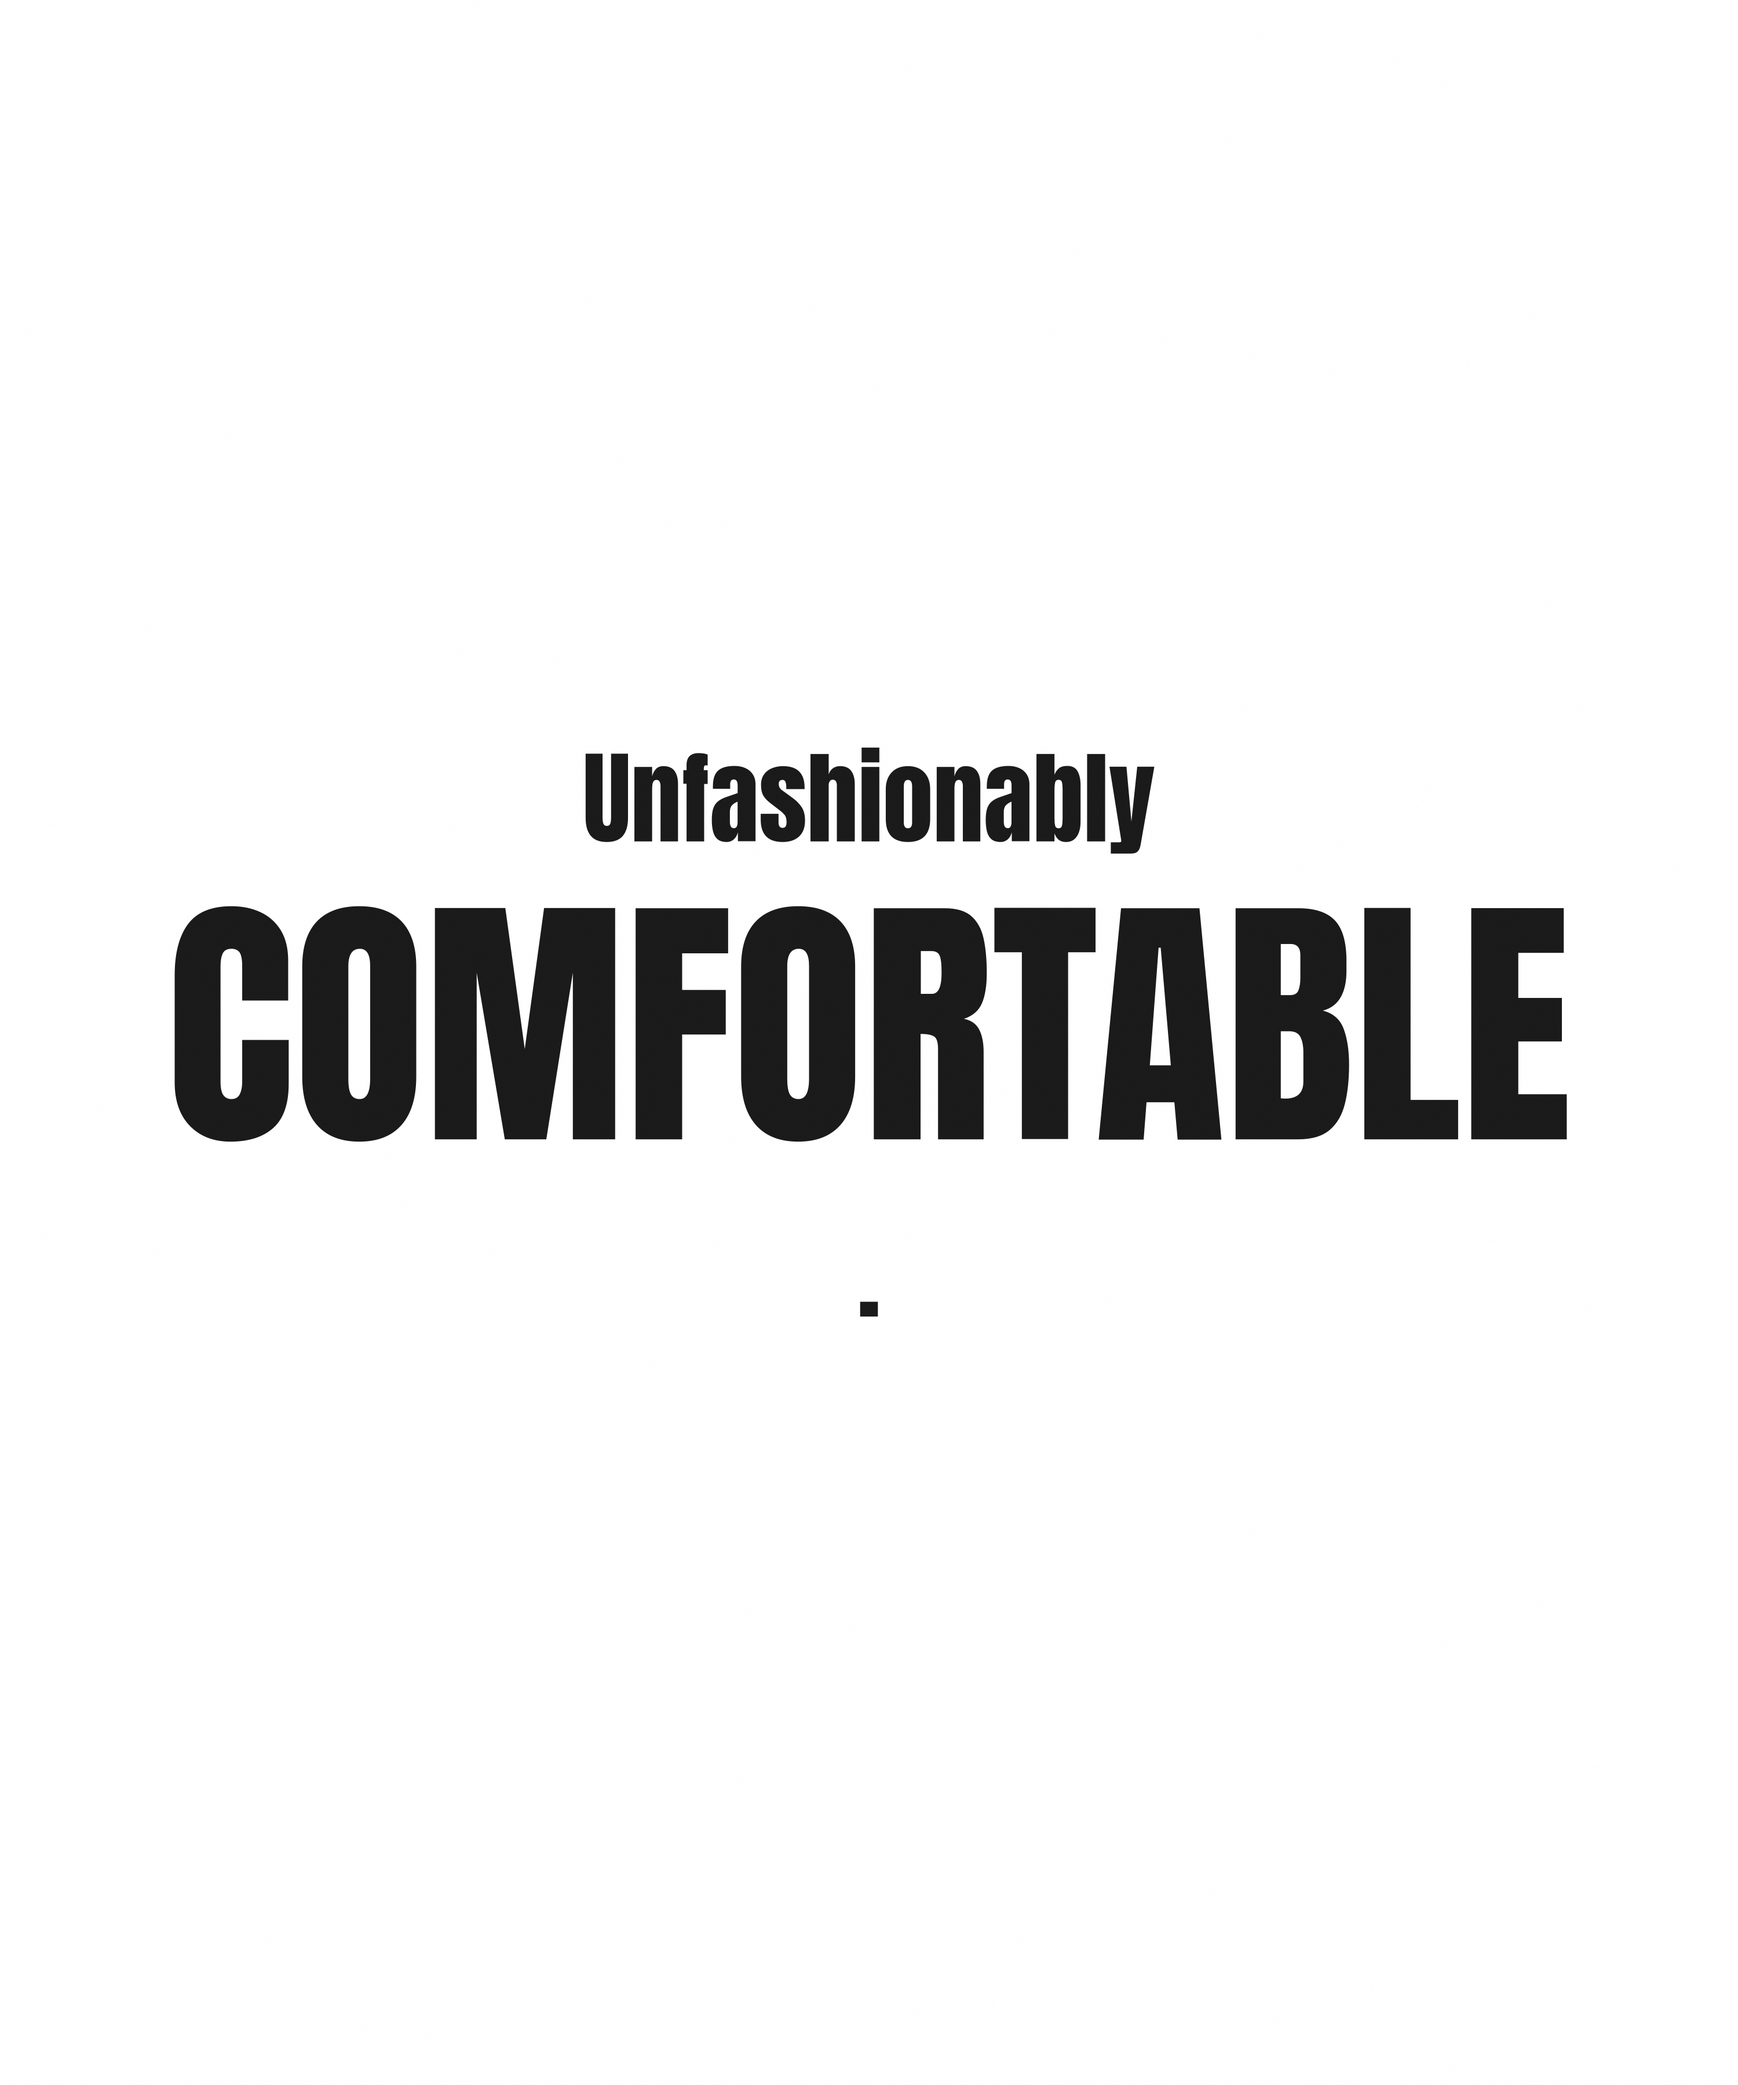
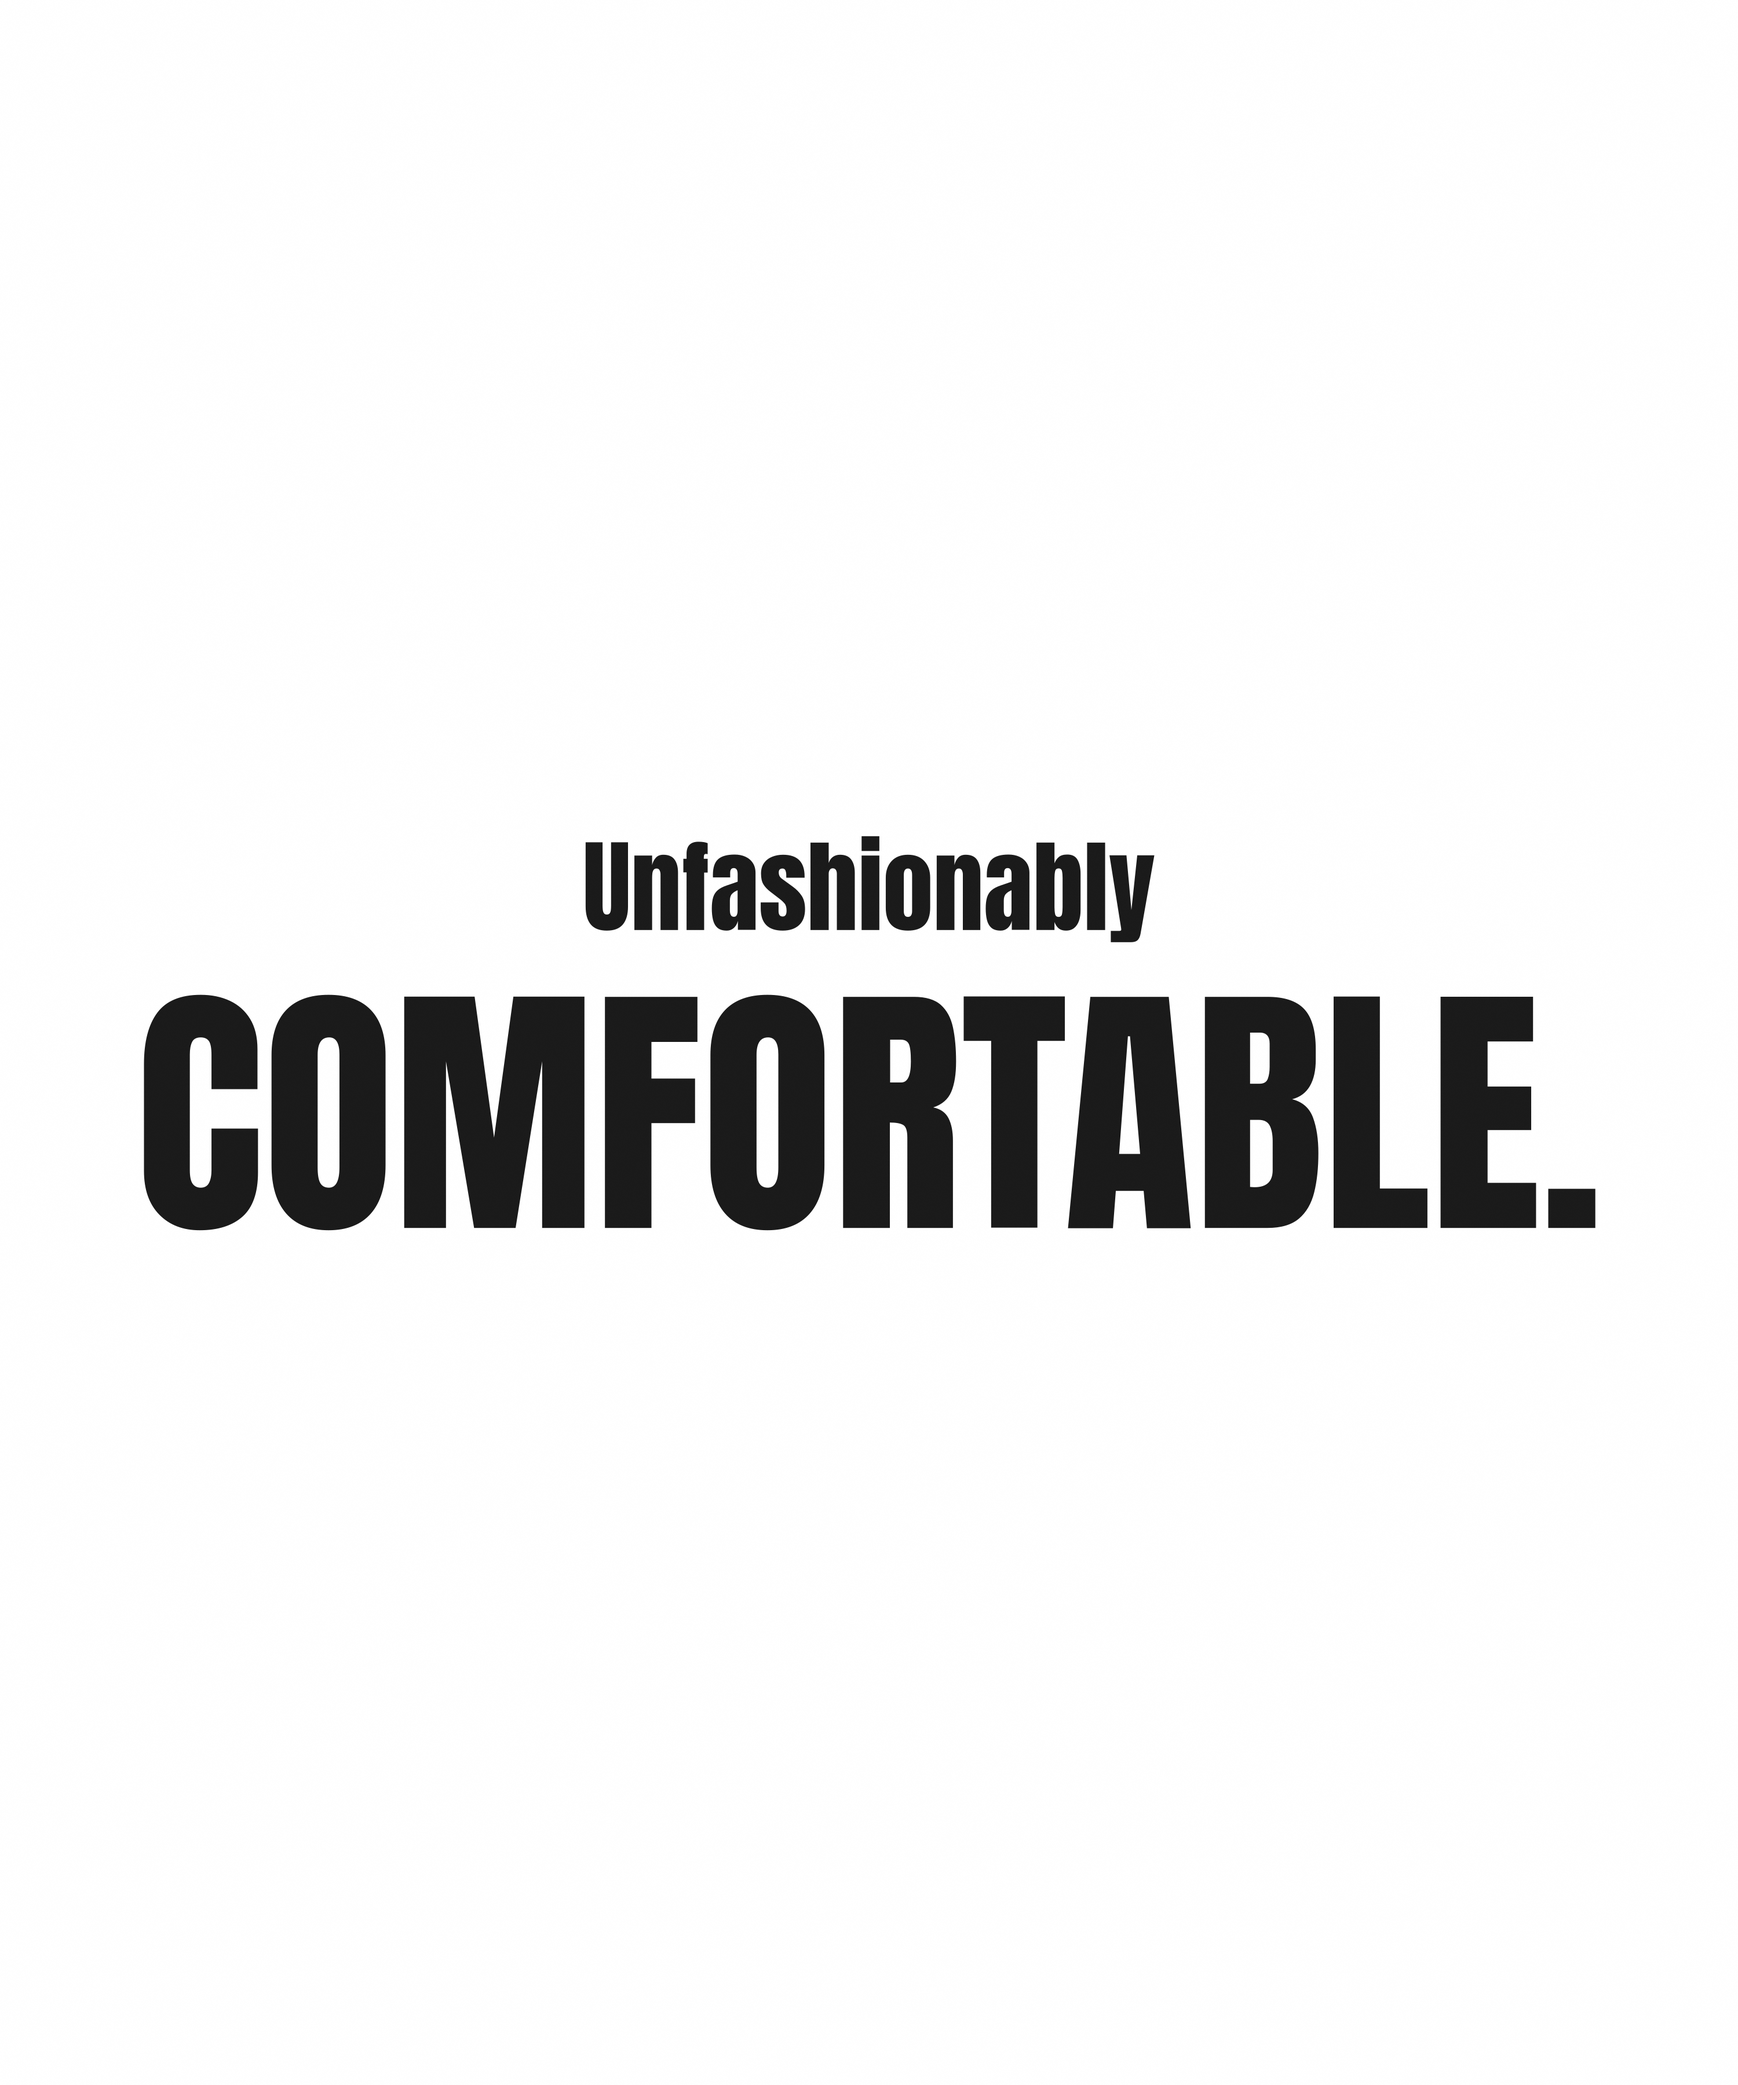
fix(designs): remove stray floating period in back prints (products 18,30,31,32,34,38)
The slogan-ending period was stored in typography_after as a lone "." which
generateBack rendered as its own centered line, printing a stray dot floating
below the keyword on every garment (all colors). Reported on product 31
(You're prettier when you're COMFORTABLE) — the period now lives on the keyword
itself (COMFORTABLE.) and typography_after is empty.

- DB: moved trailing period into typography_big, cleared typography_after for
  the 6 affected active products (18,30,31,32,34,38).
- generate-designs.js: fixed hardcoded entries #17/#18 so the GHA pipeline can
  never reintroduce the floating dot.
- Regenerated all 12 affected back_design PNGs (white + dark).
- Bumped DESIGN_VERSION 2026052301 -> 2026062101 in create-gelato-order.js and
  download-gelato-mockups.js so Gelato re-fetches the corrected print files
  instead of serving the cached defective version.

Claude-Session: https://claude.ai/code/session_018TqsqbVaFt2f9WQ44aTe5b

Changed region(s): [[0.062, 0.3422, 0.93, 0.5911]]

diff --git a/scripts/generate-designs.js b/scripts/generate-designs.js
@@ -89,9 +89,9 @@ const PRODUCTS = [
   { id: 16, phrase: "My goal: minimal EXISTENCE.",       layout: 'top-bottom',
     small: "My goal: minimal",     big: "EXISTENCE.",  after: ""                },
   { id: 17, phrase: "Experienced in EXHAUSTION.",        layout: 'top-bottom',
-    small: "Experienced in",       big: "EXHAUSTION",  after: "."                },
+    small: "Experienced in",       big: "EXHAUSTION.", after: ""                 },
   { id: 18, phrase: "Unfashionably COMFORTABLE.",        layout: 'top-bottom',
-    small: "Unfashionably",        big: "COMFORTABLE", after: "."                },
+    small: "Unfashionably",        big: "COMFORTABLE.", after: ""                },
 ];
 
 // ---------------------------------------------------------------------------

diff --git a/api/create-gelato-order.js b/api/create-gelato-order.js
@@ -29,7 +29,7 @@ if (GELATO_DRAFT_MODE) {
 // Gelato CDN caches by full URL; same URL = same cached file. Without this
 // param, re-uploading a fixed PNG has no effect — Gelato keeps serving the
 // broken cached version. Set via env or hardcode to a date tag.
-const DESIGN_VERSION = process.env.DESIGN_VERSION || '2026052301';
+const DESIGN_VERSION = process.env.DESIGN_VERSION || '2026062101';
 
 // ─────────────────────────────────────────────────────────────────
 // GELATO TEMPLATES — type+cut → Gelato catalog config

diff --git a/scripts/download-gelato-mockups.js b/scripts/download-gelato-mockups.js
@@ -58,7 +58,7 @@ const GELATO_API_BASE = 'https://order.gelatoapis.com';
 const DESIGN_BASE_URL = 'https://www.dubis.net/designs';
 // Bumped 2026-05-18 after the product-12 COFFEE-emphasis design fix landed.
 // Always bump after deploying new design files so Gelato re-fetches (cache-buster).
-const DESIGN_VERSION  = '2026052301';
+const DESIGN_VERSION  = '2026062101';
 const OUT_DIR         = process.env.MOCKUPS_OUT_DIR
                      || path.join(__dirname, '..', 'images', 'gelato-mockups');
 const PROGRESS_FILE   = path.join(OUT_DIR, 'progress.json');
